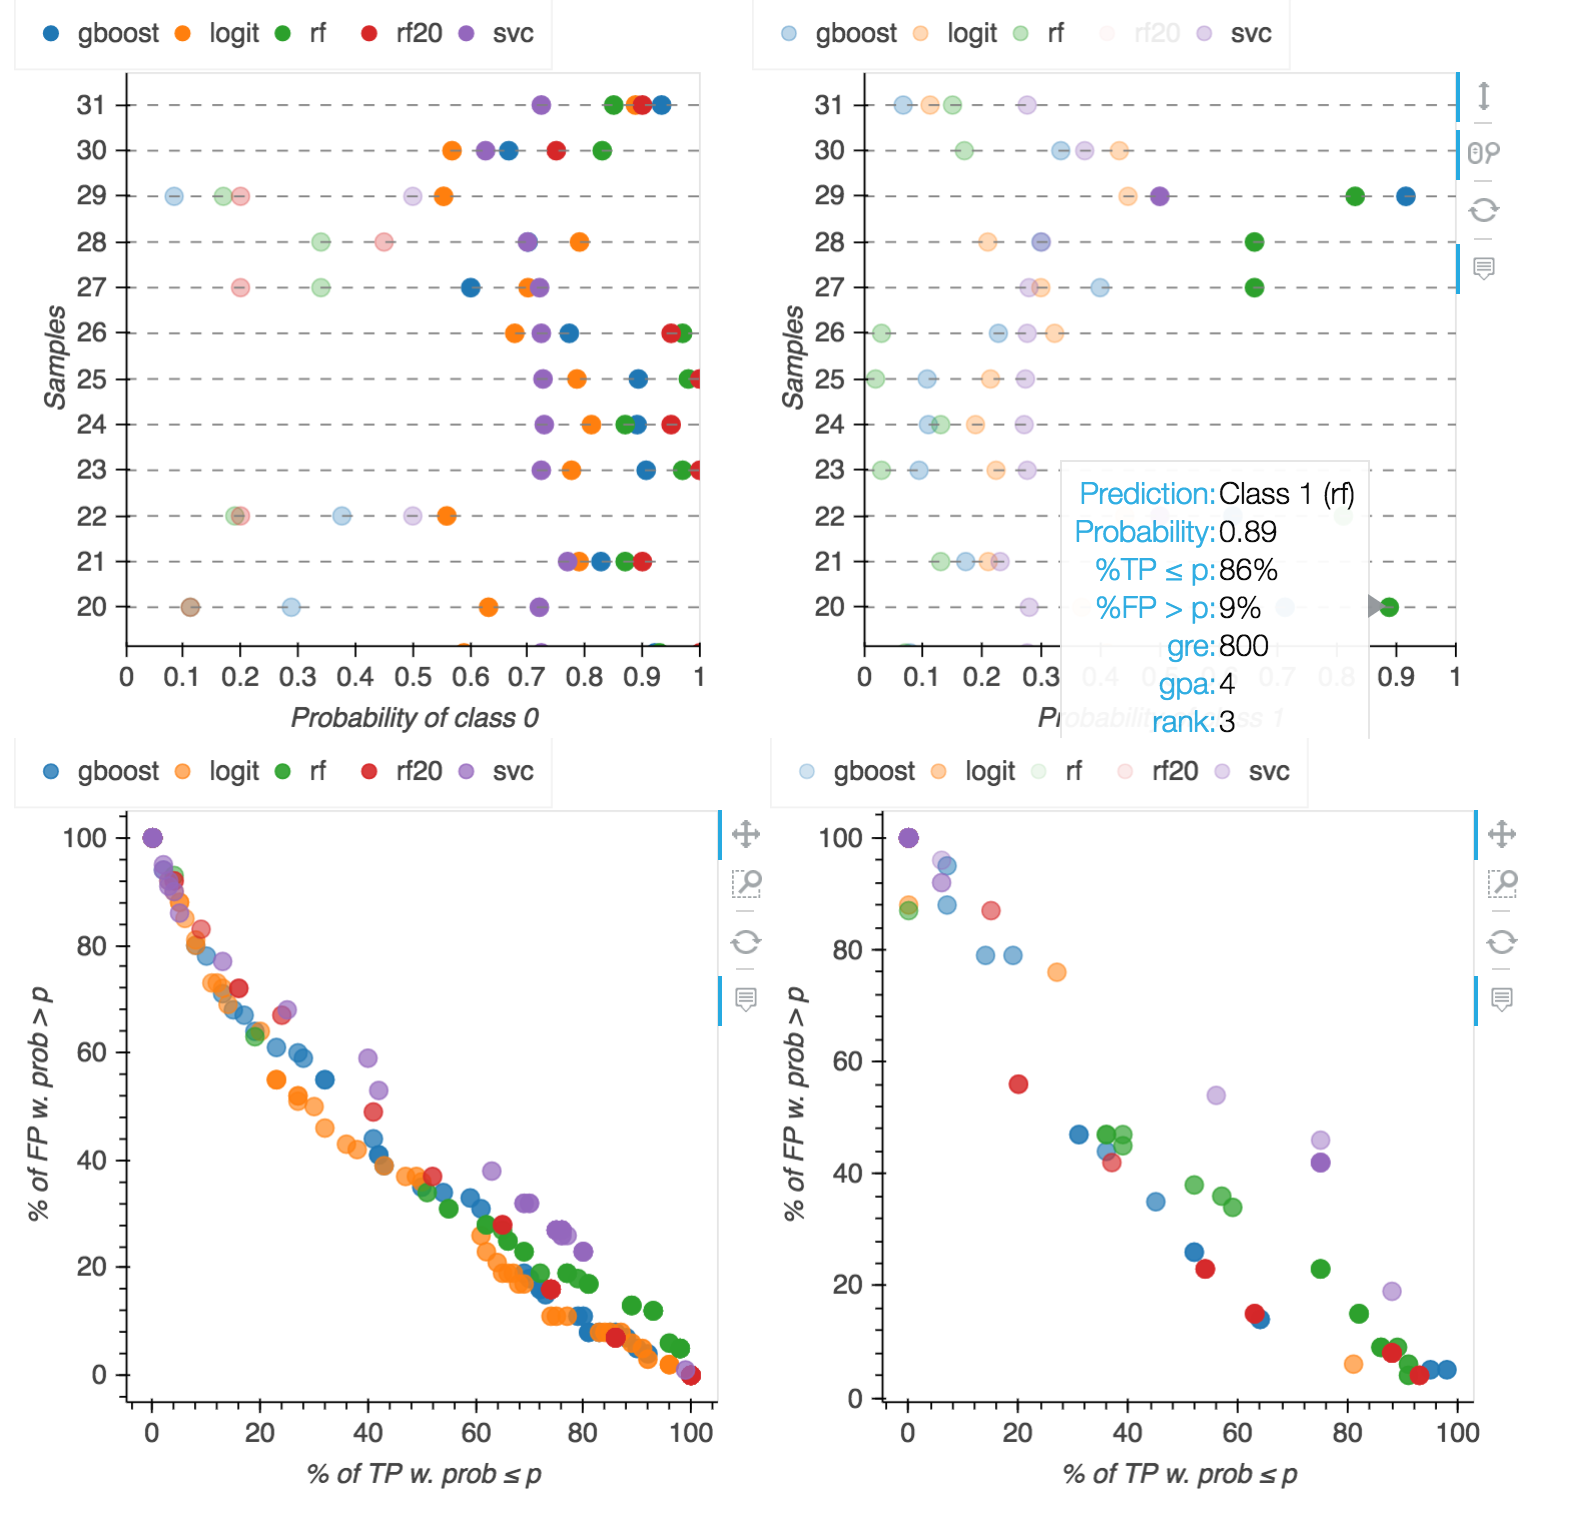
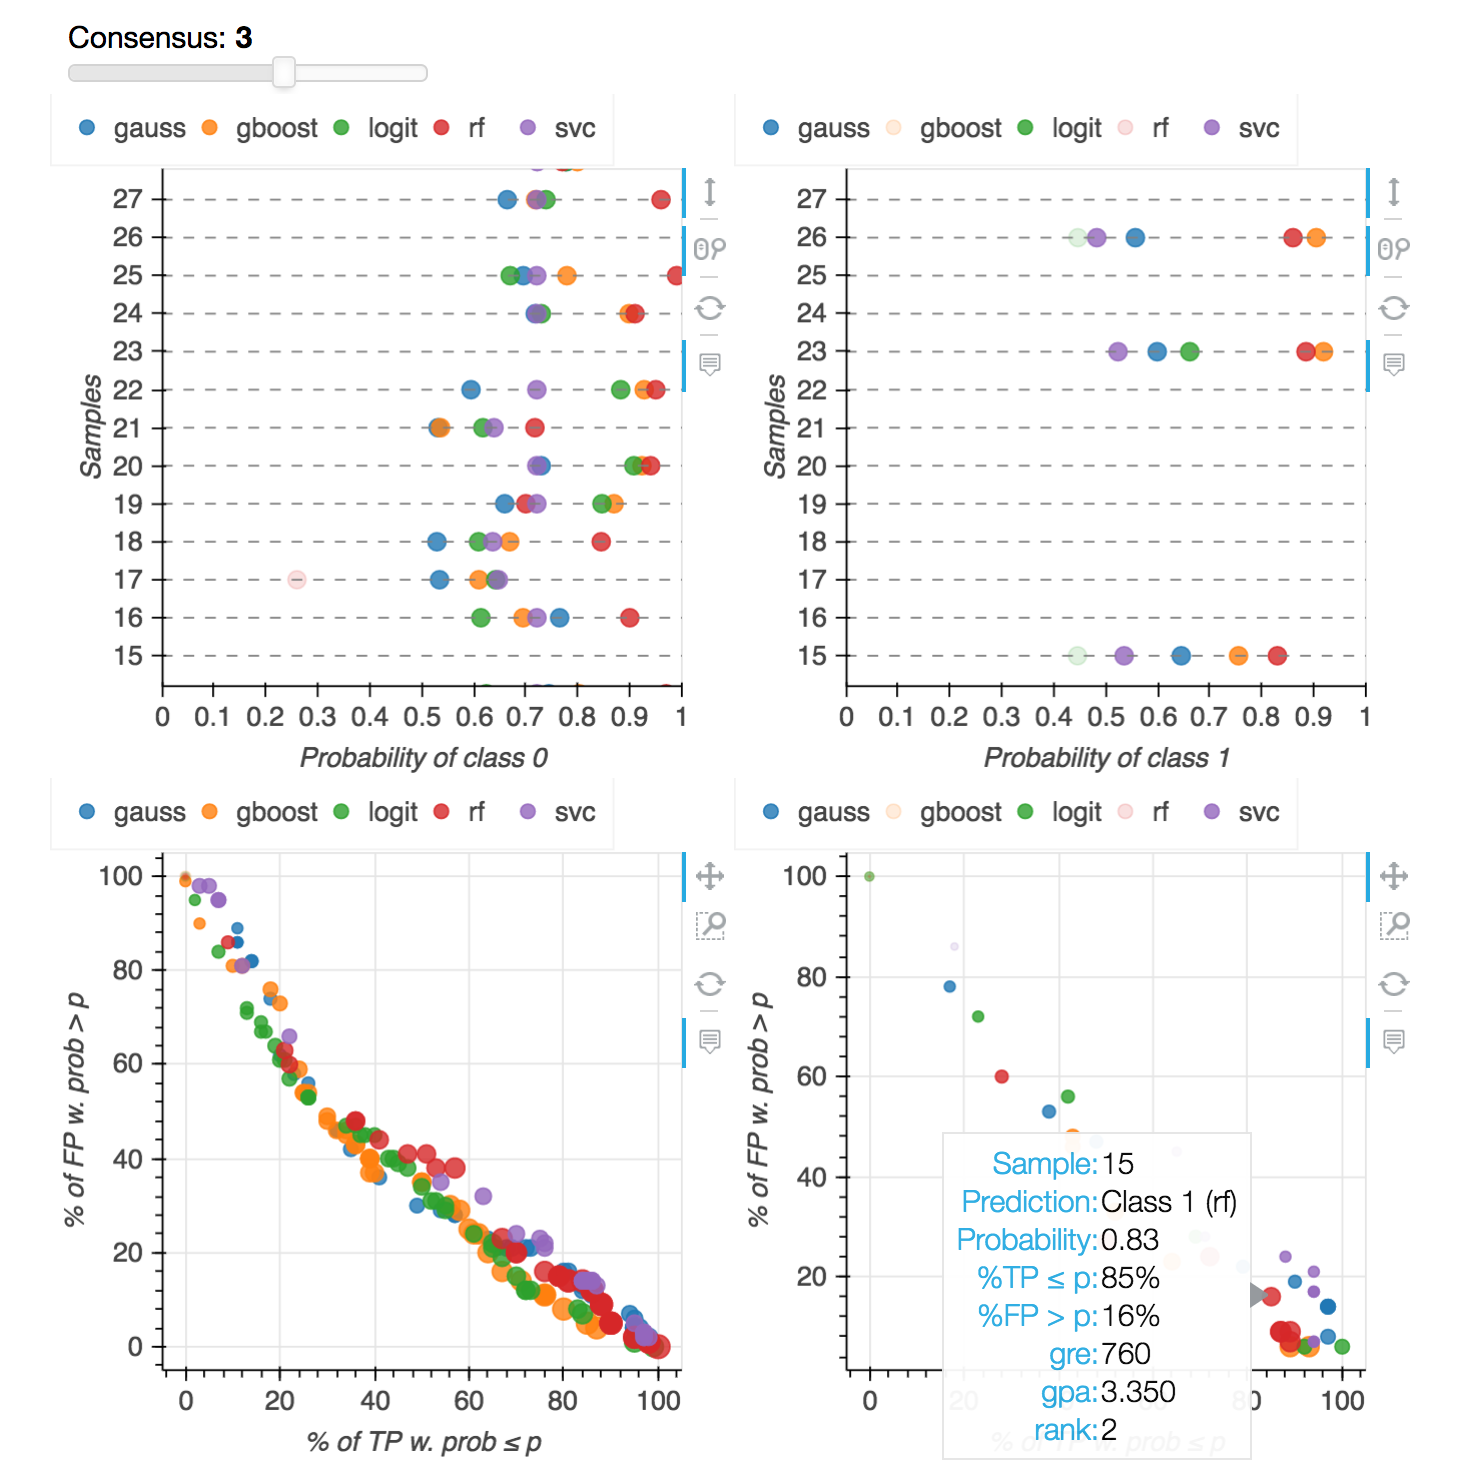
doc

diff --git a/README.md b/README.md
@@ -1,32 +1,24 @@
-Analyze interactively predictions using different probabilistic machine learning methods.
+Machine learning methods often provide predictions without justification.  Fortunately, a few methods provide estimates of probabilities of their predictions being correct.  While probabilistic information can be helpful, it must be used carefully.
 
-The use case is as follows. We start by modeling a data set. This module models the data using different probabilitisic classifiers.  A probabilistic machine classifer associates a probability with each prediction.
-
-Once the model is built, we use it to analyze test data interactively, particularly seeking answers to these questions:
+This module helps users make sense of probabilistic estimates provided by different machine learning methods.  Naturally, we want to know two basic questions:
 
 1. How probable are predicted outcomes by different classifiers?
 2. How agreeable are the classifiers for the test data set?
 
-## Features
-
-- Visualize probability of prediction of different ML algorithms for each (test) data point.
-This allows us to see how probable predictions are, and how much different algorithms agree.
-
-- For each data point, we can see (1) probability of prediction, (2) confidence estimate of the prediction being a true positive, (3) confidence estimate of the prediction being a false positive.
-
-- Show pairwise correlation of and similarity of ML algorithms.
-
-- Examine each data point.
-
+The goal of this module is to get answers to these and other questions to facilitate the decision making process.
 
 ## Usage
 
 Model building
 ```
 import pandas
-from sklearn.model_selection import KFold
 from probably import Model
+from sklearn.model_selection import KFold
 from sklearn.ensemble import GradientBoostingClassifier
+
+# We start by building a model.  We specify a dataset, features, the target variable,
+# and the classifiers that we be used.  There are 5 built-in classifiers; users can
+# also create and provide their own classifiers.
 
 model = Model(
 	data = 'data/admission.csv',
@@ -35,9 +27,11 @@ model = Model(
 	cv = KFold(10,True),
 	classifiers = [ 'rf', 'logit', ('gb', GradientBoostingClassifier()) ],
 )
+
+# A model can be saved for later usage.
 model.save('admission.model')
 
-# ...
+# Start the analysis
 # model.predict(test_data)
 ```
 
@@ -48,12 +42,27 @@ data = pandas.read_csv('data/admission.csv')
 test_data = data.sample(20)[['gre', 'gpa', 'rank']]
 
 from probably import Model
-model = Model(saved_model = 'admission.model')
+model = Model(saved_model = 'admission.model')         # Load a previously saved model.
 model.predict(test_data, 'prediction_saved.html')
 ```
 
-The output is an html file (built using Python Bokeh), from which you can
-interactively analyze predicted data.
+## Execution and visualization
+
+Use the bokeh server to serve your app from the command line:
+```
+bokeh serve --show yourapp.py
+```
+
+This will open a web browser, where the data and predictions can be analyzed and visualized.
+When visualizing the data and predictions, each data point can be examined.  Associated with each data point are many attributes.
+
+It is important to know not just the probability of each prediction, but also the contexts of such prediction.  The most important 3 attributes associated with each data point are:
+
+- Probability p of the data point being predicted for a specific label/class.
+- The percentage of true positives (with respective to that label/class) with predicted probabilities less than the probability p.
+- The percentage of false positives (with respective to that label/class) with predicted probabilities greater than the probability p.
+
+For example, a 0.8 prediction by one method can be very different from a 0.8 prediction by another method.
 
 ## Required Python 3 packages
 
@@ -63,22 +72,28 @@ interactively analyze predicted data.
 - scipy
 - scikit-learn
 
+These packages can be easily installed if you use the Anaconda distribution.
+
 ## Supported classification algorithms
 
-- Gaussian process
-- Gradient boosting
-- Logistic regression
-- Random forest
-- Support vector machine
+- Gaussian process (gauss)
+- Gradient boosting (gboost)
+- Logistic regression (logit)
+- Random forest (rf)
+- Support vector classification (svc)
 
 ## Example
+
 
 ##### Graduate school admission data set
 
 Prediction of [admission into UCLA's graduate school](https://stats.idre.ucla.edu/r/dae/logit-regression/) based on GRE score, GPA, and undergraduate school ranking.
 
-As an example, the figure shows a data point with GRE=800, GPA=4.0, undergrad school ranking = 3.
-For this data point, the probability of being accepted (using the default random forest classifier with 50 trees) is 0.89.  Further, 86% of true positives have probabilities less than or equal to 0.89; and only 9% of false positives have probabilities greater than 0.89.  These 3 numbers provides additional information about the prediction.
+As an example, the figure shows a data point with GRE=760, GPA=3.35, undergrad school ranking = 2.  The data point is predicted to be admited (class 1), with probability 0.83.  Further, 85% of true positives have probabilities less than or equal to 0.83; and 16% of false positives have probabilities greater than 0.83.
+
+In this figure, we filtered and selected only data points whose predictions are agreed by 3 or more methods.
+
+By hiding and unhiding predictions of different methods, more information can be gained.
 
 
 <img src="Figs/probably_admission.png">
